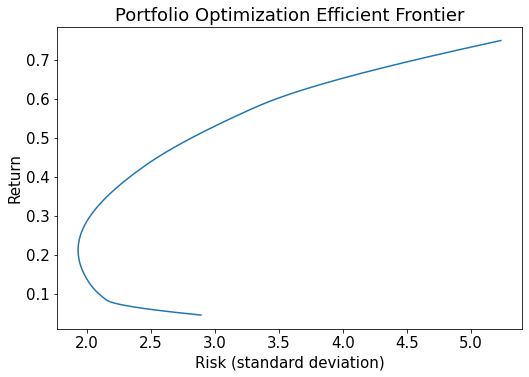
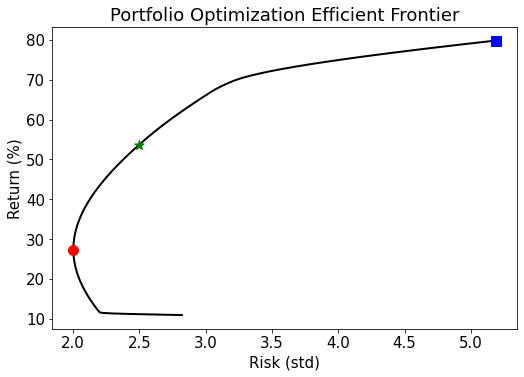
new numbers + new efficient frontier + new pie chart

diff --git a/Optimisation/HW1_Develop_Opt.py b/Optimisation/HW1_Develop_Opt.py
@@ -24,7 +24,7 @@ import math as math
 
 
 # Read in the data
-raw_stock=pd.read_csv('stocks_final.csv')
+raw_stock=pd.read_csv('/Users/Jane/Documents/School/IAA/Classwork/Analytics 503- Optimization/Spring_1-Blue_14/Optimisation/stocks_final.csv')
 
 # Manipulate the data using pivot to get one row per date, the stock names as columns, and the %return values as data points
 
@@ -87,25 +87,38 @@ for v in vars:
 
 
 # print the minimized variance (lowest volatility of the portfolio on a daily basis) when the return is good enough (0.005 here)
-print(m.objval)
-# 3.72
+print("Minimized Variance= ",round(m.objval,2))
+# 4.01
 
 # print return
-print(stock_return.dot(m.x))
+print("Return for Minimized Variance= ",stock_return.dot(m.x))
+# 0.27
 
 # print std
-print(math.sqrt(m.objval))
-# 1.93
-
-# print proportion matrix
-print(m.x)
+print("Minimized STD= ",math.sqrt(m.objval))
+# 2.00
 
 # print in easier to see way
-print("Proportion of RST (Ross Stores) Stock",round(m.x[3],3))
-print("Proportion of PDD (Pinduoduo) Stock",round(m.x[2],3))
-print("Proportion of TH (Target Hospitality) Stock",round(m.x[4],3))
-print("Proportion of ASC (Ardmore Shipping Corp) Stock",round(m.x[0],3))
-print("Proportion of GLNCY (Glencore Plc) Stock",round(m.x[1],3))
+print("Proportion of RST (Ross Stores) Stock",round(m.x[3],3)*100)
+print("Proportion of PDD (Pinduoduo) Stock",round(m.x[2],3)*100)
+print("Proportion of TH (Target Hospitality) Stock",round(m.x[4],3)*100)
+print("Proportion of ASC (Ardmore Shipping Corp) Stock",round(m.x[0],3)*100)
+print("Proportion of GLNCY (Glencore Plc) Stock",round(m.x[1],3)*100)
+
+# make a pie chart of these proportions for the bluf
+
+prop= [m.x[0]*100, m.x[1]*100,m.x[3]*100,m.x[4]*100]
+labels= ["Ardmore Shipping Corp", "Glencore Plc",  "Ross Stores", "Target Hospitality"]
+
+plt.rcParams.update({'font.size': 15})
+plt.figure(figsize=(600/72,400/72)) # make the right size for the google doc
+prop, labels = zip(*sorted(zip(prop, labels), reverse=False))
+plt.pie(prop, labels=labels, startangle=90, autopct='%1.1f%%')
+plt.title("Proportions of Stocks In Minimized Risk Portfolio", y=1.1)
+plt.axis('equal')
+plt.savefig("Pie_Chart.png", bbox_inches='tight')
+plt.show()
+
 
 
 # you would need to compare this to other volitilities to see if it is really good or bad, but it is the best we can do under the constraints
@@ -125,7 +138,7 @@ print(stock_return)
 
 # iterate over 0.03 -> 0.621 returns, since this is the range of the means - 500 values
 
-returns = np.linspace( 0.046, 0.749, 500)
+returns = np.linspace( 0.10923, 0.79882, 500)
 
 # initialize a list of returns (0.03 - 0.621 100 values), the lowest risk at each return, and the optimal proportions for the lowest risks
 ret_list = []
@@ -157,17 +170,78 @@ for ret in returns:
 # plot
 plt.rcParams.update({'font.size': 15})
 plt.figure(figsize=(600/72,400/72)) # make the right size for the google doc
-plt.plot( risks, returns ) 
-plt.xlabel( 'Risk (standard deviation)' )
-plt.ylabel( 'Return' )
+plt.plot( risks, returns*100 , color='black', linewidth=2, zorder=2 ) 
+plt.xlabel( 'Risk (std)' )
+plt.ylabel( 'Return (%)' )
 plt.title( 'Portfolio Optimization Efficient Frontier' )
 plt.locator_params(axis='both', nbins=10)
+
+# Adding call out symbols
+p1 = 2
+min_difference = float('inf')
+p1_index = None
+for i, num in enumerate(risks):
+    diff = abs(num - p1)
+    if diff < min_difference:
+        min_difference = diff
+        p1_index = i
+p2 = 2.5
+
+min_difference = float('inf')
+p2_index = None
+for i, num in enumerate(risks):
+    diff = abs(num - p2)
+    if diff < min_difference:
+        min_difference = diff
+        p2_index = i
+p3 = 5.19
+
+min_difference = float('inf')
+p3_index = None
+for i, num in enumerate(risks):
+    diff = abs(num - p3)
+    if diff < min_difference:
+        min_difference = diff
+        p3_index = i
+        
+x= [risks[p1_index],risks[p2_index],risks[p3_index]]
+y= [returns[p1_index]*100,returns[p2_index]*100,returns[p3_index]*100]
+markers = ['o', '*', 's']
+colors = ['red', 'green', 'blue']
+
+for i in range(3):
+    plt.scatter(x[i], y[i], s=100, c=colors[i], marker=markers[i], zorder=3)
+
 plt.plot()
 plt.savefig("Efficient_Frontier.png", bbox_inches='tight')
 plt.show()
 
 
 # Look at what the return and proportions are at a specified risk
+
+target = 2
+
+min_difference = float('inf')
+index = None
+for i, num in enumerate(risks):
+    diff = abs(num - target)
+    if diff < min_difference:
+        min_difference = diff
+        index = i
+
+risks_at_target = risks[index]
+return_at_target = returns[index]
+prop_at_target= props[index]
+
+print("target=",target)
+print("risk value closest to the target (std)=",round(risks_at_target,3))
+print("return value at the specified risk",round(return_at_target,3))
+
+print("Proportion of RST (Ross Stores) Stock",round(prop_at_target[3],3)*100)
+print("Proportion of PDD (Pinduoduo) Stock",round(prop_at_target[2],3)*100)
+print("Proportion of TH (Target Hospitality) Stock",round(prop_at_target[4],3)*100)
+print("Proportion of ASC (Ardmore Shipping Corp) Stock",round(prop_at_target[0],3)*100)
+print("Proportion of GLNCY (Glencore Plc) Stock",round(prop_at_target[1],3)*100)
 
 target = 2.5
 
@@ -186,11 +260,12 @@ prop_at_target= props[index]
 print("target=",target)
 print("risk value closest to the target (std)=",round(risks_at_target,3))
 print("return value at the specified risk",round(return_at_target,3))
-print("Proportion of ASC (Ardmore Shipping Corp) Stock",round(prop_at_target[0],3))
-print("Proportion of GLNCY (Glencore Plc) Stock",round(prop_at_target[1],3))
-print("Proportion of PDD (Pinduoduo) Stock",round(prop_at_target[2],3))
-print("Proportion of RST (Ross Stores) Stock",round(prop_at_target[3],3))
-print("Proportion of TH (Target Hospitality) Stock",round(prop_at_target[4],3))
+
+print("Proportion of RST (Ross Stores) Stock",round(prop_at_target[3],3)*100)
+print("Proportion of PDD (Pinduoduo) Stock",round(prop_at_target[2],3)*100)
+print("Proportion of TH (Target Hospitality) Stock",round(prop_at_target[4],3)*100)
+print("Proportion of ASC (Ardmore Shipping Corp) Stock",round(prop_at_target[0],3)*100)
+print("Proportion of GLNCY (Glencore Plc) Stock",round(prop_at_target[1],3)*100)
 
 
 target = 3.0
@@ -210,11 +285,12 @@ prop_at_target= props[index]
 print("target=",target)
 print("risk value closest to the target (std)=",round(risks_at_target,3))
 print("return value at the specified risk",round(return_at_target,3))
-print("Proportion of ASC (Ardmore Shipping Corp) Stock",round(prop_at_target[0],3))
-print("Proportion of GLNCY (Glencore Plc) Stock",round(prop_at_target[1],3))
-print("Proportion of PDD (Pinduoduo) Stock",round(prop_at_target[2],3))
-print("Proportion of RST (Ross Stores) Stock",round(prop_at_target[3],3))
-print("Proportion of TH (Target Hospitality) Stock",round(prop_at_target[4],3))
+
+print("Proportion of RST (Ross Stores) Stock",round(prop_at_target[3],3)*100)
+print("Proportion of PDD (Pinduoduo) Stock",round(prop_at_target[2],3)*100)
+print("Proportion of TH (Target Hospitality) Stock",round(prop_at_target[4],3)*100)
+print("Proportion of ASC (Ardmore Shipping Corp) Stock",round(prop_at_target[0],3)*100)
+print("Proportion of GLNCY (Glencore Plc) Stock",round(prop_at_target[1],3)*100)
 
 
 target = 3.5
@@ -234,13 +310,15 @@ prop_at_target= props[index]
 print("target=",target)
 print("risk value closest to the target (std)=",round(risks_at_target,3))
 print("return value at the specified risk",round(return_at_target,3))
-print("Proportion of ASC (Ardmore Shipping Corp) Stock",round(prop_at_target[0],3))
-print("Proportion of GLNCY (Glencore Plc) Stock",round(prop_at_target[1],3))
-print("Proportion of PDD (Pinduoduo) Stock",round(prop_at_target[2],3))
-print("Proportion of RST (Ross Stores) Stock",round(prop_at_target[3],3))
-print("Proportion of TH (Target Hospitality) Stock",round(prop_at_target[4],3))
 
-target = 5.23
+print("Proportion of RST (Ross Stores) Stock",round(prop_at_target[3],3)*100)
+print("Proportion of PDD (Pinduoduo) Stock",round(prop_at_target[2],3)*100)
+print("Proportion of TH (Target Hospitality) Stock",round(prop_at_target[4],3)*100)
+print("Proportion of ASC (Ardmore Shipping Corp) Stock",round(prop_at_target[0],3)*100)
+print("Proportion of GLNCY (Glencore Plc) Stock",round(prop_at_target[1],3)*100)
+
+
+target = 4
 
 min_difference = float('inf')
 index = None
@@ -257,8 +335,100 @@ prop_at_target= props[index]
 print("target=",target)
 print("risk value closest to the target (std)=",round(risks_at_target,3))
 print("return value at the specified risk",round(return_at_target,3))
-print("Proportion of ASC (Ardmore Shipping Corp) Stock",round(prop_at_target[0],3))
-print("Proportion of GLNCY (Glencore Plc) Stock",round(prop_at_target[1],3))
-print("Proportion of PDD (Pinduoduo) Stock",round(prop_at_target[2],3))
-print("Proportion of RST (Ross Stores) Stock",round(prop_at_target[3],3))
-print("Proportion of TH (Target Hospitality) Stock",round(prop_at_target[4],3))
+
+print("Proportion of RST (Ross Stores) Stock",round(prop_at_target[3],3)*100)
+print("Proportion of PDD (Pinduoduo) Stock",round(prop_at_target[2],3)*100)
+print("Proportion of TH (Target Hospitality) Stock",round(prop_at_target[4],3)*100)
+print("Proportion of ASC (Ardmore Shipping Corp) Stock",round(prop_at_target[0],3)*100)
+print("Proportion of GLNCY (Glencore Plc) Stock",round(prop_at_target[1],3)*100)
+
+
+target = 4.5
+
+min_difference = float('inf')
+index = None
+for i, num in enumerate(risks):
+    diff = abs(num - target)
+    if diff < min_difference:
+        min_difference = diff
+        index = i
+
+risks_at_target = risks[index]
+return_at_target = returns[index]
+prop_at_target= props[index]
+
+print("target=",target)
+print("risk value closest to the target (std)=",round(risks_at_target,3))
+print("return value at the specified risk",round(return_at_target,3))
+
+print("Proportion of RST (Ross Stores) Stock",round(prop_at_target[3],3)*100)
+print("Proportion of PDD (Pinduoduo) Stock",round(prop_at_target[2],3)*100)
+print("Proportion of TH (Target Hospitality) Stock",round(prop_at_target[4],3)*100)
+print("Proportion of ASC (Ardmore Shipping Corp) Stock",round(prop_at_target[0],3)*100)
+print("Proportion of GLNCY (Glencore Plc) Stock",round(prop_at_target[1],3)*100)
+
+
+target = 5
+
+min_difference = float('inf')
+index = None
+for i, num in enumerate(risks):
+    diff = abs(num - target)
+    if diff < min_difference:
+        min_difference = diff
+        index = i
+
+risks_at_target = risks[index]
+return_at_target = returns[index]
+prop_at_target= props[index]
+
+print("target=",target)
+print("risk value closest to the target (std)=",round(risks_at_target,3))
+print("return value at the specified risk",round(return_at_target,3))
+
+print("Proportion of RST (Ross Stores) Stock",round(prop_at_target[3],3)*100)
+print("Proportion of PDD (Pinduoduo) Stock",round(prop_at_target[2],3)*100)
+print("Proportion of TH (Target Hospitality) Stock",round(prop_at_target[4],3)*100)
+print("Proportion of ASC (Ardmore Shipping Corp) Stock",round(prop_at_target[0],3)*100)
+print("Proportion of GLNCY (Glencore Plc) Stock",round(prop_at_target[1],3)*100)
+
+target = 5.19
+
+min_difference = float('inf')
+index = None
+for i, num in enumerate(risks):
+    diff = abs(num - target)
+    if diff < min_difference:
+        min_difference = diff
+        index = i
+
+risks_at_target = risks[index]
+return_at_target = returns[index]
+prop_at_target= props[index]
+
+print("target=",target)
+print("risk value closest to the target (std)=",round(risks_at_target,3))
+print("return value at the specified risk",round(return_at_target,3))
+
+print("Proportion of RST (Ross Stores) Stock",round(prop_at_target[3],3)*100)
+print("Proportion of PDD (Pinduoduo) Stock",round(prop_at_target[2],3)*100)
+print("Proportion of TH (Target Hospitality) Stock",round(prop_at_target[4],3)*100)
+print("Proportion of ASC (Ardmore Shipping Corp) Stock",round(prop_at_target[0],3)*100)
+print("Proportion of GLNCY (Glencore Plc) Stock",round(prop_at_target[1],3)*100)
+
+
+## Additional notes not in paper
+
+#Portfolio to Double Return - Lower Risk
+#looks like a risk of just 0.5 more (2.5) about doubles the return (from 27% to 54%) - breakdown looks like   - 100.0% increase
+#Medium Risk Portfolio Options
+#from 2.5 - 3 increases the return by around 12% points (66%) - 22.2% increase in return with 0.5 increase in risk
+#from 3 - 3.5 increases the return by around 6% points (72%) - 9.1% increase in return with 0.5 increase in risk
+#from 3.5 - 4 increases the return by around 3% points (75%) - 4.2% increase in return with 0.5 increase in risk
+#from 3.5 - 4.5 increases the return by around 2% points (77%) - 2.7% increase in return with 0.5 increase in risk
+#from 4.5 - 5  increases the return by around 2% points (79%) - 2.5% increase in return with 0.5 increase in risk
+#We could graph the change in %increase? this could go in the appendix? not sure, just putting the info here for now
+#Portfolio to Triple Return - High Risk 
+#Highest risk profile - all of money in Target Hospitality for a return of 80% and a risk of 5.19
+#triples the return from minimum risk (27% * 3 = 81%) - so slightly under  - but with way more risk
+#196.3% increase from minimum risk
